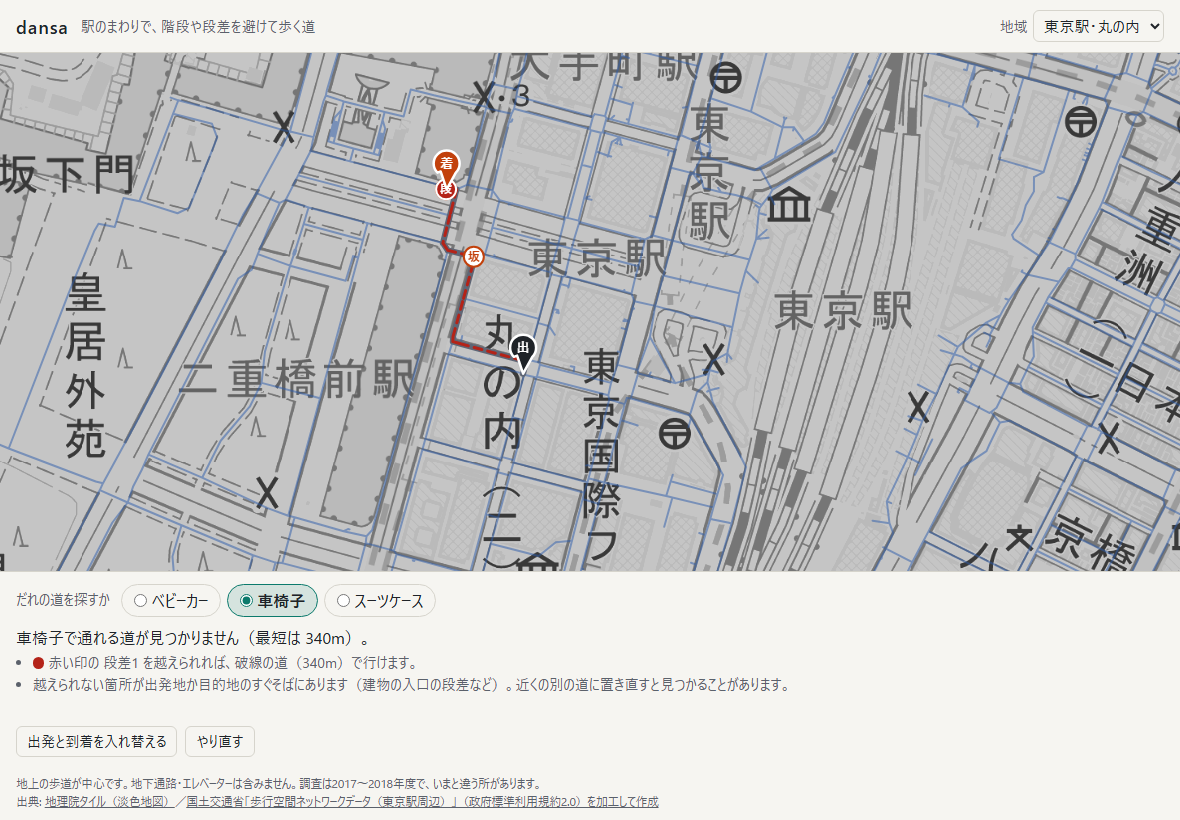
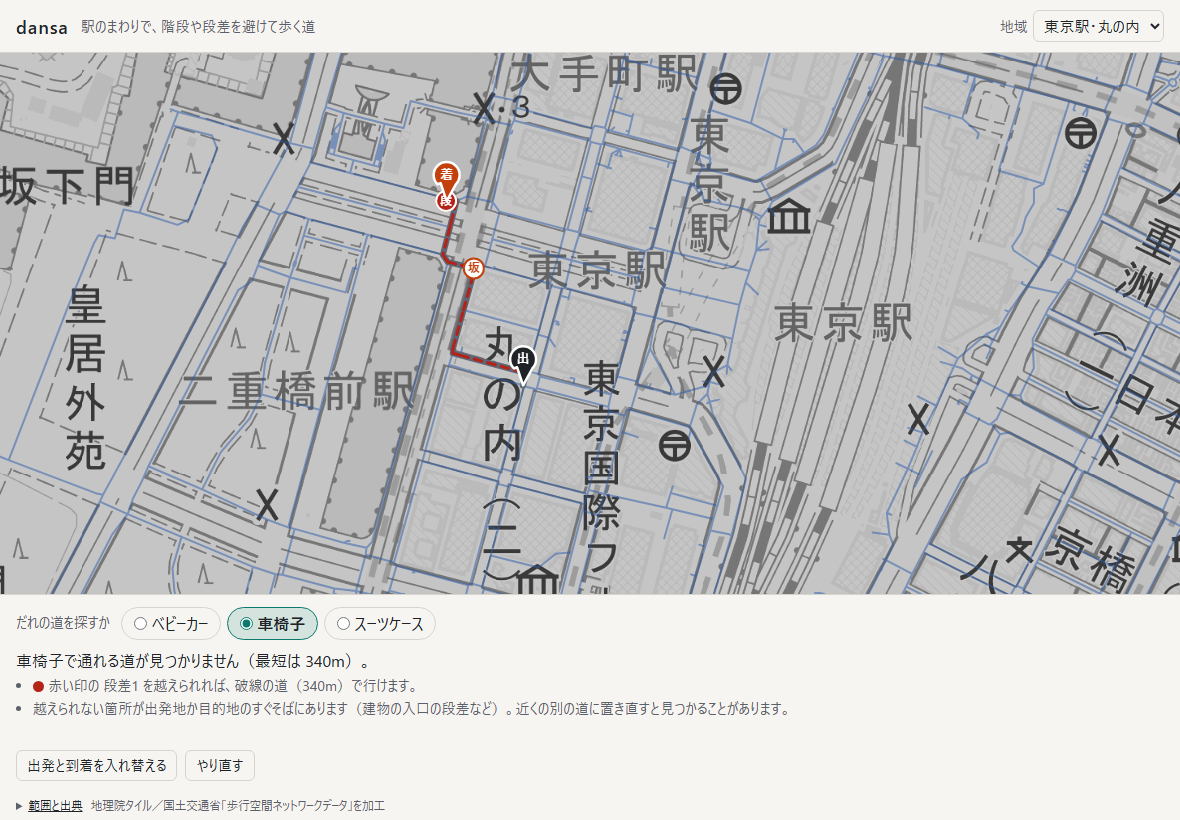
注記を折りたたみ、出典の要点だけを1行で出して地図を広げる

Changed region(s): [[0.0, 0.061, 1.0, 1.0]]

diff --git a/src/App.tsx b/src/App.tsx
@@ -240,21 +240,29 @@ function Planner({ area, data, profile, onProfile }: PlannerProps) {
           </button>
         </div>
       </section>
+      {/* 地図を広く残すため、ふだんは出典の要点だけを1行で出し、範囲の注意と出典の全文は開いたときに出す */}
       <footer className="credit">
-        <p>
-          {area.note && `${area.note}`}
-          {coverageNote(area)}
-        </p>
-        <p>
-          出典:{' '}
-          <a href="https://maps.gsi.go.jp/development/ichiran.html" target="_blank" rel="noreferrer">
-            地理院タイル（淡色地図）
-          </a>
-          ／
-          <a href={net.source.page} target="_blank" rel="noreferrer">
-            {net.attribution}
-          </a>
-        </p>
+        <details>
+          <summary>
+            <span className="more">範囲と出典</span>
+            <span className="nobr">地理院タイル／</span>
+            <span className="nobr">国土交通省「歩行空間ネットワークデータ」を加工</span>
+          </summary>
+          <p>
+            {area.note && `${area.note}`}
+            {coverageNote(area)}
+          </p>
+          <p>
+            出典:{' '}
+            <a href="https://maps.gsi.go.jp/development/ichiran.html" target="_blank" rel="noreferrer">
+              地理院タイル（淡色地図）
+            </a>
+            ／
+            <a href={net.source.page} target="_blank" rel="noreferrer">
+              {net.attribution}
+            </a>
+          </p>
+        </details>
       </footer>
     </>
   )

diff --git a/tools/e2e.ts b/tools/e2e.ts
@@ -177,6 +177,9 @@ const scenarios: Scenario[] = [
       assert.equal(await ui.page.run(`return document.title`), 'dansa')
       await ui.page.waitFor(`performance.getEntriesByType('resource').some(e => e.name.startsWith('https://cyberjapandata.gsi.go.jp/xyz/pale/'))`, '地理院タイルの読み込み')
       assert.match(await ui.text('.result'), /出発地を選んで/)
+      // 地図を広く残すため、注記は閉じておき、出典の要点だけを見せる
+      assert.equal(await ui.page.run(`return document.querySelector('.credit details').open`), false)
+      assert.match(await ui.page.run<string>(`return document.querySelector('.credit summary').innerText`), /地理院タイル.*国土交通省「歩行空間ネットワークデータ」を加工/)
       const credit = await ui.text('.credit')
       assert.match(credit, /地下通路・エレベーターは含みません/)
       assert.match(credit, /2017〜2018年度/)

diff --git a/src/index.css b/src/index.css
@@ -269,14 +269,35 @@ body {
 }
 
 .credit {
-  padding: 6px 16px 10px;
+  padding: 4px 16px 6px;
   color: var(--muted);
   font-size: 0.72rem;
   line-height: 1.5;
 }
 
 .credit p {
-  margin: 0;
+  margin: 4px 0 0;
+}
+
+.credit summary {
+  cursor: pointer;
+}
+
+.credit summary:focus-visible {
+  outline: 3px solid var(--accent);
+  outline-offset: 1px;
+}
+
+/* 狭い画面で折り返すときは「／」の後で切る */
+.credit .nobr {
+  white-space: nowrap;
+}
+
+/* 開けることが分かるよう、要点の前に下線つきで置く */
+.credit .more {
+  margin-right: 8px;
+  color: var(--fg);
+  text-decoration: underline;
 }
 
 .credit a {
